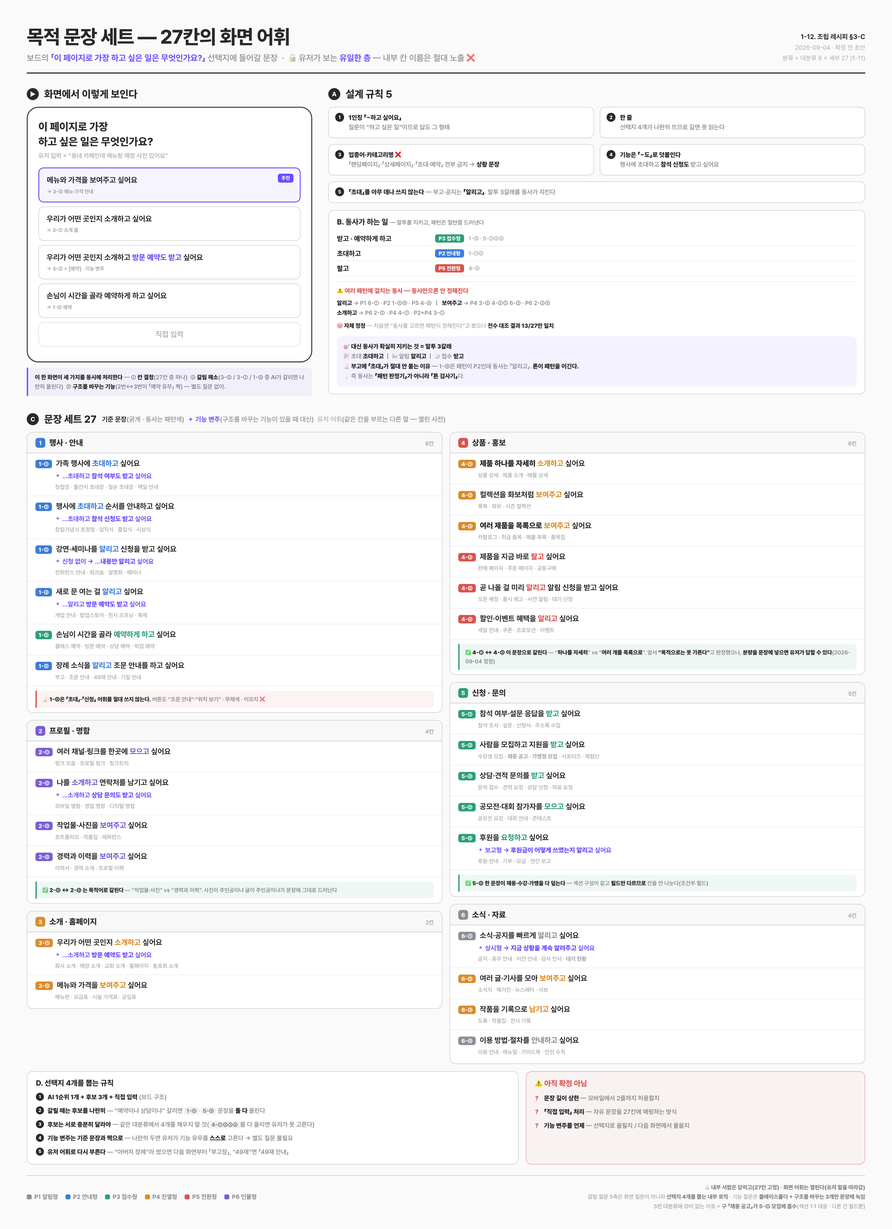
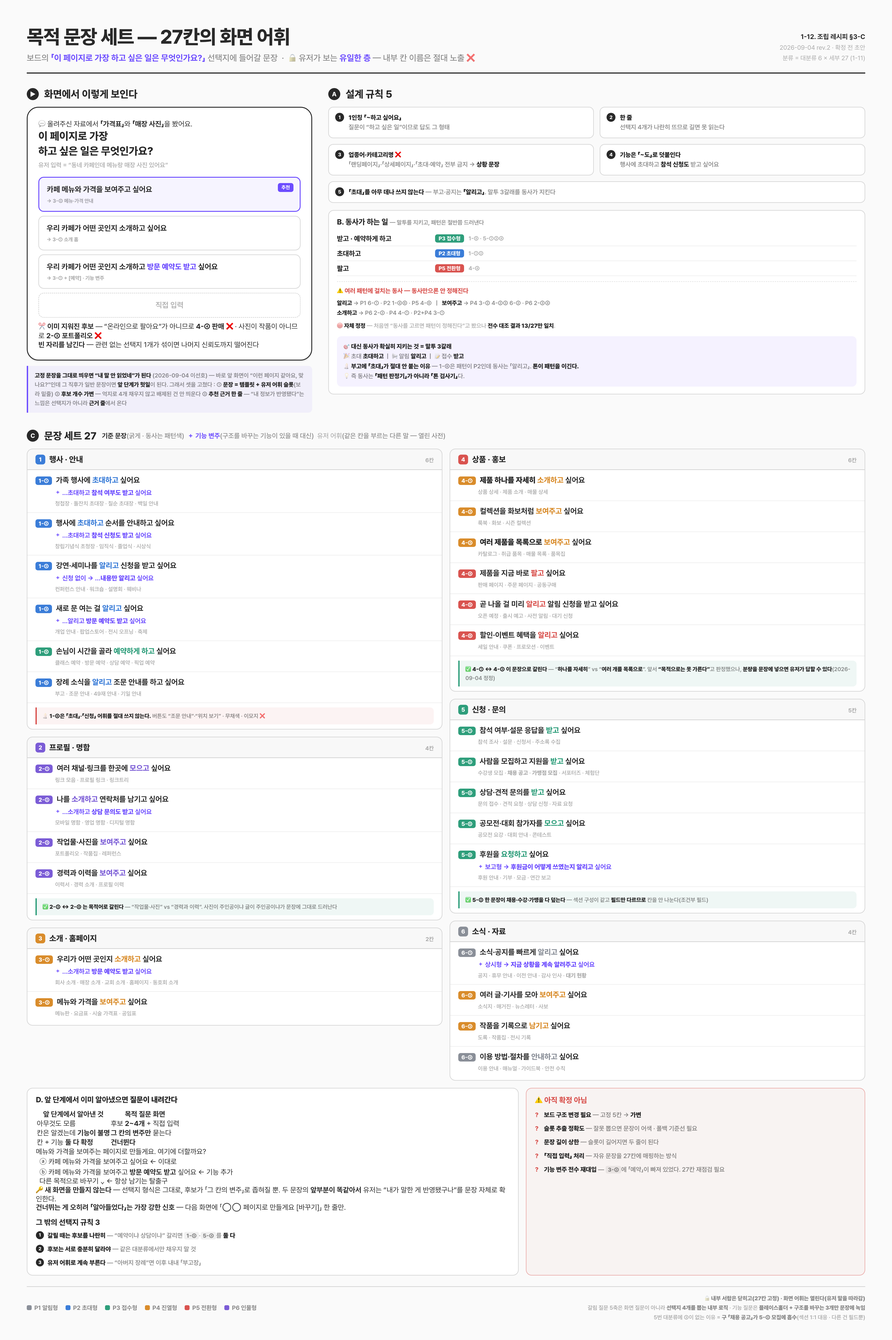
vault backup: 2026-09-04 12:44:11

diff --git a/1. 작업 가이드/.data/1-12-recipe-diagram.html b/1. 작업 가이드/.data/1-12-recipe-diagram.html
@@ -68,6 +68,34 @@ body{background:var(--bg);color:var(--ink);
 .rules2{display:grid;grid-template-columns:1fr 1fr;gap:14px}
 .callout code{background:rgba(41,41,41,.08);padding:1px 5px;border-radius:4px;font-family:inherit;font-weight:800;font-size:12.5px}
 
+
+.axwrap{display:grid;grid-template-columns:1.25fr 1fr;gap:16px;margin-bottom:38px}
+.axbox{border:1.5px solid var(--line2);border-radius:14px;background:#fff;padding:16px 20px 18px}
+.ax-h{font-size:18px;font-weight:800;margin-bottom:12px}
+.axr{font-size:13.5px;line-height:1.6;color:var(--mut);font-weight:600;margin-bottom:9px;padding-left:150px;position:relative}
+.axr b{color:var(--ink)}
+.axl{position:absolute;left:0;top:1px;width:138px;font-size:12px;font-weight:800;color:#fff;background:var(--mut2);
+  padding:3px 8px;border-radius:5px;text-align:center}
+.axcl{font-size:14px;font-weight:700;color:var(--acc);background:rgba(108,76,255,.08);border-radius:9px;padding:9px 14px;margin:11px 0 13px}
+.axcl b{color:var(--acc)}
+.axsplit{display:grid;grid-template-columns:1fr 1fr;gap:12px;margin-bottom:12px}
+.axhalf{border:1.5px solid rgba(217,83,79,.3);background:rgba(217,83,79,.045);border-radius:10px;padding:11px 14px;
+  font-size:12.5px;line-height:1.6;color:var(--mut);font-weight:600}
+.axhalf b{color:var(--ink)} .red{color:#D9534F!important} .grn{color:var(--p3)!important}
+.ax-sh{font-size:14px;font-weight:800;color:#D9534F;margin-bottom:6px}
+.axmath{background:rgba(41,41,41,.045);border-radius:10px;padding:11px 15px;font-size:13.5px;line-height:1.7;color:var(--mut);font-weight:600}
+.axmath b{color:var(--ink)} .axmath span{font-size:12.5px;color:var(--mut2)}
+table.who{width:100%;border-collapse:collapse}
+table.who td{padding:5px 0;border-bottom:1px solid var(--line);font-size:13px;vertical-align:top}
+table.who tr:last-child td{border-bottom:none}
+.w1{color:var(--ink);font-weight:700}
+.w1 span{display:block;font-size:11px;color:var(--mut2);font-weight:600;margin-top:1px}
+.w1 b{font-weight:800}
+.w2{text-align:right;font-weight:800;font-size:12.5px;white-space:nowrap;padding-left:10px!important}
+.w2.pt{color:var(--p2)}.w2.kn{color:var(--p4)}.w2.us{color:var(--p3)}.w2.mx{color:var(--mut)}.w2.md{color:var(--mut2)}
+.axwarn{margin-top:12px;background:rgba(217,83,79,.06);border-left:3px solid #D9534F;border-radius:0 9px 9px 0;
+  padding:10px 14px;font-size:12.5px;line-height:1.65;color:var(--mut);font-weight:600}
+.axwarn b{color:var(--ink)}
 /* ── 분류 체계 스트립 ── */
 .clswrap{display:grid;grid-template-columns:repeat(3,1fr);gap:13px;margin-bottom:12px}
 .cls{border:1.5px solid var(--line2);border-radius:12px;background:#fff;padding:13px 16px 14px;position:relative;overflow:hidden}
@@ -88,6 +116,25 @@ body{background:var(--bg);color:var(--ink);
 .cn{border-left:3px solid var(--acc);background:rgba(108,76,255,.06);border-radius:0 9px 9px 0;
   padding:11px 15px;font-size:13.5px;line-height:1.6;color:var(--mut);font-weight:600}
 .cn b{color:var(--ink)}
+
+.abbr,.condbox{border:1.5px solid var(--line2);border-radius:12px;background:#fff;padding:13px 17px 14px;margin-top:14px}
+.ab-h{font-size:16px;font-weight:800;margin-bottom:10px}
+.ab-h span{font-size:12.5px;color:var(--mut);font-weight:600}
+.ab-h span b{color:var(--ink)}
+.ab-g{display:flex;flex-wrap:wrap;gap:7px;margin-bottom:10px}
+.ab{font-size:12.5px;font-weight:600;color:var(--mut);background:rgba(41,41,41,.05);padding:4px 10px;border-radius:6px}
+.ab b{color:var(--ink);font-weight:800}
+.ab.hi{background:rgba(217,83,79,.08)}
+.ab-n{font-size:12.5px;line-height:1.65;color:var(--mut);font-weight:600;border-top:1px solid var(--line);padding-top:9px}
+.ab-n b{color:var(--ink)}
+.cd-g{margin-bottom:9px}
+.cdr{font-size:13px;line-height:1.55;color:var(--mut);font-weight:600;margin-bottom:6px;padding-left:56px;position:relative}
+.cdr b{color:var(--ink)}
+.cdt{position:absolute;left:0;top:0;width:46px;text-align:center;font-size:11.5px;font-weight:800;color:#fff;padding:2px 0;border-radius:5px}
+.cdt.p1{background:var(--p1)}.cdt.p3{background:var(--p3)}.cdt.p4{background:var(--p4)}.cdt.p5{background:var(--p5)}
+.cd-t{font-size:12.5px;line-height:1.6;color:var(--mut);font-weight:600;background:rgba(41,41,41,.045);border-radius:8px;padding:9px 13px;margin-top:6px}
+.cd-t b{color:var(--ink)}
+.cd-t.acc{background:rgba(108,76,255,.07)}
 /* ── row B : 27 cards ── */
 .cols{display:grid;grid-template-columns:repeat(6,1fr);gap:15px;margin-bottom:38px}
 .col-h{border-top:3px solid var(--ink);padding:11px 4px 12px;margin-bottom:11px}
@@ -103,6 +150,8 @@ body{background:var(--bg);color:var(--ink);
 .cd-i{font-size:13px;font-weight:800;color:var(--mut2)}
 .cd-p{font-size:10.5px;font-weight:800;color:#fff;background:var(--c);
   padding:1.5px 6px;border-radius:5px;letter-spacing:.2px}
+.cd-cond{font-size:10px;font-weight:800;color:var(--mut);background:rgba(41,41,41,.07);padding:1.5px 5px;border-radius:4px;letter-spacing:-.2px}
+.cd-lock{font-size:10px}
 .cd-new{font-size:10.5px;font-weight:800;color:var(--acc);background:rgba(108,76,255,.12);
   padding:1.5px 6px;border-radius:5px}
 .cd-t{font-size:16px;font-weight:800;line-height:1.3;margin-bottom:6px}
@@ -207,7 +256,7 @@ body{background:var(--bg);color:var(--ink);
     <div class="t1">조립 레시피 — 27칸</div>
     <div class="t2">CdBd <b>AI 페이지 빌더</b> 내부 기준 · 「어떤 섹션을 어떤 순서로」 &nbsp;·&nbsp; 공통 골격 <b>1</b> + 배치 패턴 <b>6</b> + 칸별 카드 <b>27</b> &nbsp;·&nbsp; 유저 질문은 <b>「목적」 하나</b></div>
   </div>
-  <div class="meta"><b>1-12. 조립 레시피 (제안 초안)</b><br>2026-09-04 rev.3 · 확정 전 초안<br>분류 정본 = 1-11 (대분류 6 × 세부 27)</div>
+  <div class="meta"><b>1-12. 조립 레시피 (제안 초안)</b><br>2026-09-04 rev.4 · 확정 전 초안<br>분류 정본 = 1-11 (대분류 6 × 세부 27)</div>
 </div>
 
 <div class="rowA">
@@ -267,6 +316,36 @@ body{background:var(--bg);color:var(--ink);
         <div class="flow"><span class="fx k">★프로필=히어로</span><span class="ar">→</span><span class="fx">소개</span><span class="ar">→</span><span class="fx k">★실적·링크</span><span class="ar">→</span><span class="fx">문의</span></div>
         <div class="pat-f"><b>프로필이 최상단</b> — 갤러리·이력·연락처를 프로필보다 위에 ❌ · 멀티 2P</div></div>
     </div>
+    <div class="abbr">
+      <div class="ab-h">📖 약칭 사전 <span>— 흐름 줄의 말들은 13칸 서랍 이름이 아니라 「역할 묶음」이다</span></div>
+      <div class="ab-g">
+        <span class="ab"><b>도입</b> 소개·스토리</span><span class="ab"><b>보조</b> 보조 블록</span>
+        <span class="ab"><b>본문</b> 스토리(글)</span><span class="ab"><b>부가</b> 핵심정보＋안내</span>
+        <span class="ab"><b>때·장소</b> 핵심정보</span><span class="ab"><b>유의</b> 안내 사항</span>
+        <span class="ab hi"><b>근거</b> 핵심정보(가격)＋프로모션＋자료(후기)</span>
+        <span class="ab hi"><b>상세</b> 자료(상세컷)＋제품 설명＋스토리</span>
+        <span class="ab"><b>실적·링크</b> 자료·나열</span>
+      </div>
+      <div class="ab-n">💡 <b>「근거」와 「상세」를 나눈 이유</b> — 근거 = <b>“왜 사야 하나”</b>(싸다·혜택·후기) · 상세 = <b>“무엇을 사는 건가”</b>(사진·스펙).
+        <b>P5는 근거가 먼저</b>(살 이유를 던지고 더 알고 싶은 사람만 내려감) · <b>P4는 상세가 먼저</b>.
+        <b class="red">상세를 먼저 두면 그 순간 P4가 된다</b> — P4↔P5는 CTA 위치만이 아니라 이 순서로도 갈린다.</div>
+    </div>
+
+    <div class="condbox">
+      <div class="ab-h">🔀 한 칸이 <b>여러 패턴을 쓴다</b> <span>— 27칸 중 <b>21칸</b>이 조건에 따라 패턴이 바뀐다. 1:1 고정은 6칸뿐</span></div>
+      <div class="cd-g">
+        <div class="cdr"><span class="cdt p3">＋P3</span><b>받는 기능이 붙는다</b>(참석·신청·예약·문의) → ★ 뒤에 <b>[안내 마감일]＋[폼]</b> 삽입 · 문의 CTA가 “회신하기”로</div>
+        <div class="cdr"><span class="cdt p4">＋P4</span><b>아이템이 여러 개</b>가 된다 → ★가 <b>반복 단위</b>가 되고 앞에 <b>[스토리]</b>가 붙는다</div>
+        <div class="cdr"><span class="cdt p5">＋P5</span><b>결제·전환</b>이 목적에 들어온다 → 구매 CTA를 <b>상단에도</b> 추가 · [스토리]를 뒤로</div>
+        <div class="cdr"><span class="cdt p1">→P1</span><b>짧아지고 받을 것도 없다</b> → 폼·위치·반복이 빠지고 본문 하나로 &nbsp;<b class="red">(대체이지 추가 아님)</b></div>
+      </div>
+      <div class="cd-t">🔒 <b>패턴 고정 6칸</b> 1-⑥ · 2-① · 2-③ · 2-④ · 5-① · 6-①
+        &nbsp;— 공통점 = <b>기능 변주가 없고 아이템 개수도 안 변한다</b></div>
+      <div class="cd-t acc">🔑 <b>트리거는 딱 둘</b> ① <b>기능이 붙는다</b>(＋P3·＋P5) = <b>유저</b>가 목적 문장에서
+        &nbsp;② <b>아이템 개수</b>(＋P4·→P1) = <b>자료 분석</b>(사진 장수·제품 수)<br>
+        → 둘 다 「내용」에서 나오므로 <b>패턴은 유저에게 묻지 않는다</b></div>
+    </div>
+
     <div class="rules2">
       <div class="callout" style="margin-top:14px;border-color:#8A8F98;background:rgba(41,41,41,.045)">
         <b style="color:#292929">🚪 도입 블록은 언제 넣나</b> — 히어로에 흡수되지 않는 <b style="color:#292929">독립 선택 블록</b>.<br>
@@ -283,6 +362,53 @@ body{background:var(--bg);color:var(--ink);
         <b style="color:#D9534F">📍 위치 안내도 보조 블록</b> — 골격의 고정 자리가 아니라 <b style="color:#D9534F">찾아올 곳이 있을 때만</b>.
         단 <b style="color:#D9534F">P2 초대형에선 사실상 필수</b>(「가야 할 곳」이 그 패턴의 정의)</div>
     </div>
+  </div>
+</div>
+
+<div class="sec-h"><div class="sec-n">🧭</div><div><div class="sec-t">왜 두 축인가 · 누가 무엇을 정하나</div></div>
+  <div class="sec-d"><b>명사축(칸 27) × 동사축(패턴 6)</b> — 둘 다 6개인 건 우연이고 대응 관계가 없다</div></div>
+<div class="axwrap">
+  <div class="axbox">
+    <div class="ax-h">두 축은 <b>서로를 결정하지 못한다</b></div>
+    <div class="axr"><span class="axl">㉮ 주제 같은데 배치 다름</span>
+      <b>4-① 상세</b> ↔ <b>4-④ 판매</b> — 둘 다 「물건」·재료도 같은데
+      CTA가 <b>중간 한 번</b> ↔ <b>최상단＋최하단</b> · 스토리가 <b>앞</b> ↔ <b>맨 뒤</b></div>
+    <div class="axr"><span class="axl">㉯ 배치 같은데 주제 다름</span>
+      <b>룩북</b>(옷) · <b>메뉴판</b>(음식) · <b>도록</b>(작품) · <b>매거진</b>(글) — 재료가 전혀 다른데
+      배치는 <b>완전히 같다</b>(히어로→스토리→아이템 반복→문의)</div>
+    <div class="axcl">→ 두 방향이 모두 성립 = <b>독립</b>. 하나로 합칠 수 없다 ∎</div>
+    <div class="axsplit">
+      <div class="axhalf"><div class="ax-sh">주제 축만 남기면</div>
+        같은 순서를 <b>8번 복제</b>(P4를 8칸이 공유) → 규칙 하나 고치려면 8곳.
+        <b class="red">구버전 16개 레시피가 실제로 이 상태였다</b> — 한 곳 고치면 나머지 15개가 낡음</div>
+      <div class="axhalf"><div class="ax-sh">배치 축만 남기면</div>
+        「아이템」에 뭐가 들어가는지 모름 — 룩북=화보 / 도록=<b>캡션 4항목</b> / 메뉴판=<b>2단 양끝정렬</b> / 매거진=제목+발췌
+        → <b class="red">빈 껍데기만 나온다</b></div>
+    </div>
+    <div class="axmath">한 축 : <b>27 × (순서＋내용)</b> — 순서를 27번 기술 &nbsp;&nbsp;|&nbsp;&nbsp;
+      두 축 : <b>6 × 순서 ＋ 27 × 내용</b> — 순서를 6번 &nbsp;<b class="grn">↑ 중복 21번 제거</b><br>
+      <span>조각은 늘고 기술량은 준다 — 이것이 두 축으로 나누는 실질 이득</span></div>
+  </div>
+
+  <div class="axbox">
+    <div class="ax-h">누가 무엇을 정하나 — <b>결정 주체 셋</b></div>
+    <table class="who">
+      <tr><td class="w1">섹션 큰 덩어리 순서</td><td class="w2 pt">패턴</td></tr>
+      <tr><td class="w1">특징적 배치 <span>P5 CTA 2회 · P6 프로필 최상단 · P2 위치 필수 / P1 배제</span></td><td class="w2 pt">패턴</td></tr>
+      <tr><td class="w1">멀티페이지 분할</td><td class="w2 pt">패턴</td></tr>
+      <tr><td class="w1">★ 결정 블록</td><td class="w2 kn">칸</td></tr>
+      <tr><td class="w1">반복 단위의 정보 구조</td><td class="w2 kn">칸</td></tr>
+      <tr><td class="w1">보조 블록 <b>후보 목록</b> <span>6-① 공지에 [구매] ❌</span></td><td class="w2 kn">칸</td></tr>
+      <tr><td class="w1">보조 블록 <b>내용</b> <span>[안내 사항]이 1-②=좌석·주차 / 4-①=배송·환불</span></td><td class="w2 kn">칸</td></tr>
+      <tr><td class="w1">보조 블록끼리의 <b>세부 순서</b></td><td class="w2 kn">칸</td></tr>
+      <tr><td class="w1">톤(보이스)</td><td class="w2 mx">패턴 → 칸이 덮어쓰기</td></tr>
+      <tr><td class="w1">기능 유무 <span>참석·예약·결제</span></td><td class="w2 us">유저</td></tr>
+      <tr><td class="w1">그 외 보조 블록 유무 · 콘텐츠</td><td class="w2 us">유저</td></tr>
+      <tr><td class="w1">색·폰트(무드)</td><td class="w2 md">AI 추천 → 유저 확인</td></tr>
+    </table>
+    <div class="axwarn">🔴 <b>자주 틀리는 둘</b><br>
+      ① “순서는 전부 패턴” ❌ — <b>보조끼리의 세부 순서는 칸</b>. 같은 P2인데 1-②는 <b>폼→안내</b>, 1-③은 <b>안내→폼</b><br>
+      ② “기능은 칸이 정한다” ❌ — 칸은 <b>「붙을 수 있다」까지만</b>. 실제 유무는 <b>유저</b>가 목적 문장에서 고른다</div>
   </div>
 </div>
 
@@ -328,17 +454,17 @@ body{background:var(--bg);color:var(--ink);
   <div>
     <div class="col-h"><div class="col-n">대분류 1 · 주인공 = 때</div><div class="col-t">행사 · 안내</div>
       <div class="col-s">세부 <span class="cnt">6칸</span> · 오게 하는 것</div></div>
-    <div class="card" style="--c:var(--p2)"><div class="cd-h"><span class="cd-i">1-①</span><span class="cd-p">P2</span></div>
+    <div class="card" style="--c:var(--p2)"><div class="cd-h"><span class="cd-i">1-①</span><span class="cd-p">P2</span><span class="cd-cond">＋P3</span></div>
       <div class="cd-t">경조사 초대장</div><div class="cd-b"><span class="st">★</span> 주인공 인물 (이름·사진)<div class="cd-s"><span class="lbl">정보 구조</span>사진 + 이름(쌍) + 관계 한 덩어리</div></div></div>
-    <div class="card" style="--c:var(--p2)"><div class="cd-h"><span class="cd-i">1-②</span><span class="cd-p">P2</span></div>
+    <div class="card" style="--c:var(--p2)"><div class="cd-h"><span class="cd-i">1-②</span><span class="cd-p">P2</span><span class="cd-cond">＋P3</span></div>
       <div class="cd-t">행사 초대장</div><div class="cd-b"><span class="st">★</span> 식순 (시간 + 순서)<div class="cd-s"><span class="lbl">정보 구조</span>시간 + 순서명 <b>2열</b> · 인물 카드 ❌</div></div></div>
-    <div class="card" style="--c:var(--p2)"><div class="cd-h"><span class="cd-i">1-③</span><span class="cd-p">P2</span></div>
+    <div class="card" style="--c:var(--p2)"><div class="cd-h"><span class="cd-i">1-③</span><span class="cd-p">P2</span><span class="cd-cond">＋P3 ＋P4</span></div>
       <div class="cd-t">세미나·강연 안내</div><div class="cd-b"><span class="st">★</span> 연사 × N + 세션 목록<div class="cd-s"><span class="lbl">정보 구조</span>연사 카드 × N <b>＋</b> 시간·세션·연사 3열</div></div></div>
-    <div class="card" style="--c:var(--p2)"><div class="cd-h"><span class="cd-i">1-④</span><span class="cd-p">P2</span></div>
+    <div class="card" style="--c:var(--p2)"><div class="cd-h"><span class="cd-i">1-④</span><span class="cd-p">P2</span><span class="cd-cond">＋P3 ＋P4</span></div>
       <div class="cd-t">개업·오픈 안내</div><div class="cd-b"><span class="st">★</span> 기간 + 볼거리·혜택<div class="cd-s"><span class="lbl">정보 구조</span>시작~종료 + 운영시간 ＋ 참여 항목 나열</div></div></div>
-    <div class="card" style="--c:var(--p3)"><div class="cd-h"><span class="cd-i">1-⑤</span><span class="cd-p">P3</span></div>
+    <div class="card" style="--c:var(--p3)"><div class="cd-h"><span class="cd-i">1-⑤</span><span class="cd-p">P3</span><span class="cd-cond">＋P4</span></div>
       <div class="cd-t">예약</div><div class="cd-b"><span class="st">★</span> 회차 버튼 (버튼 1 = 세션 1)<div class="cd-s"><span class="lbl">정보 구조</span>버튼 1 = 세션 1 세로 반복 · 달력 UI ❌</div></div></div>
-    <div class="card" style="--c:var(--p2)"><div class="cd-h"><span class="cd-i">1-⑥</span><span class="cd-p">P2</span><span class="cd-new">📢 알림 톤</span></div>
+    <div class="card" style="--c:var(--p2)"><div class="cd-h"><span class="cd-i">1-⑥</span><span class="cd-p">P2</span><span class="cd-new">📢 알림 톤</span><span class="cd-lock">🔒</span></div>
       <div class="cd-t">부고·추모</div><div class="cd-b"><span class="st">★</span> 장례 정보 (빈소·발인·장지)<div class="cd-s"><span class="lbl">정보 구조</span>빈소/발인/장지 <b>다중 일정</b> 라벨+값</div></div></div>
     <div class="note">🕯 부고는 「초대」가 아니다 — 무채색 · 이모지❌ · 버튼 “조문 안내”. 국내 서비스 12곳 전수 확인: 부고를 초대장에 묶는 곳 0</div>
   </div>
@@ -346,13 +472,13 @@ body{background:var(--bg);color:var(--ink);
   <div>
     <div class="col-h"><div class="col-n">대분류 2 · 주인공 = 사람</div><div class="col-t">프로필 · 명함</div>
       <div class="col-s">세부 <span class="cnt">4칸</span> · 전부 P6</div></div>
-    <div class="card" style="--c:var(--p6)"><div class="cd-h"><span class="cd-i">2-①</span><span class="cd-p">P6</span></div>
+    <div class="card" style="--c:var(--p6)"><div class="cd-h"><span class="cd-i">2-①</span><span class="cd-p">P6</span><span class="cd-lock">🔒</span></div>
       <div class="cd-t">프로필 (링크 모음)</div><div class="cd-b"><span class="st">★</span> 링크 목록 · 성격별 그룹 최대 3<div class="cd-s"><span class="lbl">정보 구조</span>그룹 제목 + 전폭 버튼 반복 × 최대 3그룹</div></div></div>
-    <div class="card" style="--c:var(--p6)"><div class="cd-h"><span class="cd-i">2-②</span><span class="cd-p">P6</span></div>
+    <div class="card" style="--c:var(--p6)"><div class="cd-h"><span class="cd-i">2-②</span><span class="cd-p">P6</span><span class="cd-cond">＋P3</span></div>
       <div class="cd-t">영업용 명함</div><div class="cd-b"><span class="st">★</span> 사람 + 하는 일 + 연락 수단<div class="cd-s"><span class="lbl">정보 구조</span>프로필 ＋ 분야 나열 ＋ 연락 버튼 한 묶음</div></div></div>
-    <div class="card dual" style="--c:var(--p6);--c2:var(--p4)"><div class="cd-h"><span class="cd-i">2-③</span><span class="cd-p">P6+P4</span></div>
+    <div class="card dual" style="--c:var(--p6);--c2:var(--p4)"><div class="cd-h"><span class="cd-i">2-③</span><span class="cd-p">P6+P4</span><span class="cd-lock">🔒</span></div>
       <div class="cd-t">포트폴리오</div><div class="cd-b"><span class="st">★</span> 작업물 — <b>이미지</b>가 주인공<div class="cd-s"><span class="lbl">정보 구조</span>이미지 갤러리(그리드·캐러셀) + 설명</div></div></div>
-    <div class="card" style="--c:var(--p6)"><div class="cd-h"><span class="cd-i">2-④</span><span class="cd-p">P6</span><span class="cd-new">NEW</span></div>
+    <div class="card" style="--c:var(--p6)"><div class="cd-h"><span class="cd-i">2-④</span><span class="cd-p">P6</span><span class="cd-new">NEW</span><span class="cd-lock">🔒</span></div>
       <div class="cd-t">이력서·경력</div><div class="cd-b"><span class="st">★</span> 시간순 경력 — <b>글</b>이 주인공<div class="cd-s"><span class="lbl">정보 구조</span>기간 + 소속 + 역할 <b>3열 시간순</b> · 이미지 ❌</div></div></div>
     <div class="note">③↔④는 갈림 질문 ⑤로 가른다. 결과물이 글인 직군(번역·집필·연구)은 갤러리가 주인공이 될 수 없다</div>
   </div>
@@ -360,9 +486,9 @@ body{background:var(--bg);color:var(--ink);
   <div>
     <div class="col-h"><div class="col-n">대분류 3 · 주인공 = 공간·조직</div><div class="col-t">소개 · 홈페이지</div>
       <div class="col-s">세부 <span class="cnt">2칸</span> · 확장 여부 미결</div></div>
-    <div class="card dual" style="--c:var(--p2);--c2:var(--p4)"><div class="cd-h"><span class="cd-i">3-①</span><span class="cd-p">P2+P4</span></div>
+    <div class="card dual" style="--c:var(--p2);--c2:var(--p4)"><div class="cd-h"><span class="cd-i">3-①</span><span class="cd-p">P2+P4</span><span class="cd-cond">＋P3</span></div>
       <div class="cd-t">소개 홈</div><div class="cd-b"><span class="st">★</span> 우리가 누구 · 무엇을 하는지<div class="cd-s"><span class="lbl">정보 구조</span>스토리 문단 ＋ 제공 항목 나열 · 섹션 수 최다</div></div></div>
-    <div class="card" style="--c:var(--p4)"><div class="cd-h"><span class="cd-i">3-②</span><span class="cd-p">P4</span></div>
+    <div class="card" style="--c:var(--p4)"><div class="cd-h"><span class="cd-i">3-②</span><span class="cd-p">P4</span><span class="cd-cond">＋P3</span></div>
       <div class="cd-t">메뉴·가격 안내</div><div class="cd-b"><span class="st">★</span> 품목 + 가격 반복<div class="cd-s"><span class="lbl">정보 구조</span><b>2단 양끝정렬</b>(품목 ↔ 가격) 1행 반복</div></div></div>
     <div class="note">🧩 <b>27칸 중 유일한 종합형</b> — 3-①만 다른 대분류의 유형을 <b>페이지 단위</b>로 품는다. 멀티페이지 본진<br><br>
       아트갤러리 홈페이지<br>├ P1 홈<br>├ P2 전시 ← 1-④<br>├ P3 작품 ← 6-③<br>└ P4 방문 안내 ← 1-⑤<br><br>
@@ -373,32 +499,32 @@ body{background:var(--bg);color:var(--ink);
   <div>
     <div class="col-h"><div class="col-n">대분류 4 · 주인공 = 물건</div><div class="col-t">상품 · 홍보</div>
       <div class="col-s">세부 <span class="cnt">6칸</span> · 실사용 최대 구역</div></div>
-    <div class="card" style="--c:var(--p4)"><div class="cd-h"><span class="cd-i">4-①</span><span class="cd-p">P4</span></div>
+    <div class="card" style="--c:var(--p4)"><div class="cd-h"><span class="cd-i">4-①</span><span class="cd-p">P4</span><span class="cd-cond">＋P5</span></div>
       <div class="cd-t">상품 상세</div><div class="cd-b"><span class="st">★</span> 제품별 상세 블록 반복 <b>(깊고 적게)</b><div class="cd-s"><span class="lbl">정보 구조</span><b>제품 1개 = 섹션 여러 개</b><br>갤러리→이름·가격→설명→스펙→실측→구매</div></div></div>
-    <div class="card" style="--c:var(--p4)"><div class="cd-h"><span class="cd-i">4-②</span><span class="cd-p">P4</span></div>
+    <div class="card" style="--c:var(--p4)"><div class="cd-h"><span class="cd-i">4-②</span><span class="cd-p">P4</span><span class="cd-cond">＋P5</span></div>
       <div class="cd-t">룩북·컬렉션</div><div class="cd-b"><span class="st">★</span> 룩별 화보 섹션 · 「LOOK N」<div class="cd-s"><span class="lbl">정보 구조</span><b>룩 1개 = 독립 섹션</b> · LOOK N + 화보 + 1줄</div></div></div>
-    <div class="card" style="--c:var(--p4)"><div class="cd-h"><span class="cd-i">4-③</span><span class="cd-p">P4</span><span class="cd-new">NEW</span></div>
+    <div class="card" style="--c:var(--p4)"><div class="cd-h"><span class="cd-i">4-③</span><span class="cd-p">P4</span><span class="cd-new">NEW</span><span class="cd-cond">＋P5</span></div>
       <div class="cd-t">카탈로그</div><div class="cd-b"><span class="st">★</span> 여러 품목 목록 <b>(얕고 많이)</b><div class="cd-s"><span class="lbl">정보 구조</span><b>품목 1개 = 카드 1장</b> · 이름+컷+1~2줄</div></div></div>
-    <div class="card" style="--c:var(--p5)"><div class="cd-h"><span class="cd-i">4-④</span><span class="cd-p">P5</span></div>
+    <div class="card" style="--c:var(--p5)"><div class="cd-h"><span class="cd-i">4-④</span><span class="cd-p">P5</span><span class="cd-cond">＋P4</span></div>
       <div class="cd-t">판매·주문</div><div class="cd-b"><span class="st">★</span> 구매 CTA — 상단 + 하단<div class="cd-s"><span class="lbl">정보 구조</span><b>상단·하단 2회</b> + 사이에 근거(가격·리뷰)</div></div></div>
-    <div class="card" style="--c:var(--p5)"><div class="cd-h"><span class="cd-i">4-⑤</span><span class="cd-p">P5</span><span class="cd-new">NEW</span></div>
+    <div class="card" style="--c:var(--p5)"><div class="cd-h"><span class="cd-i">4-⑤</span><span class="cd-p">P5</span><span class="cd-new">NEW</span><span class="cd-cond">＋P3 →P1</span></div>
       <div class="cd-t">출시·사전예약</div><div class="cd-b"><span class="st">★</span> 출시 예고 + 알림 신청 <b>(돈❌)</b><div class="cd-s"><span class="lbl">정보 구조</span>D-DAY + 티저 ＋ <b>연락처만</b> 받는 폼</div></div></div>
-    <div class="card" style="--c:var(--p5)"><div class="cd-h"><span class="cd-i">4-⑥</span><span class="cd-p">P5</span><span class="cd-new">NEW</span></div>
+    <div class="card" style="--c:var(--p5)"><div class="cd-h"><span class="cd-i">4-⑥</span><span class="cd-p">P5</span><span class="cd-new">NEW</span><span class="cd-cond">＋P4 →P1</span></div>
       <div class="cd-t">프로모션·이벤트</div><div class="cd-b"><span class="st">★</span> 혜택 + 마감<div class="cd-s"><span class="lbl">정보 구조</span>혜택 숫자·% + 쿠폰 코드 + 마감 시각</div></div></div>
   </div>
 
   <div>
     <div class="col-h"><div class="col-n">대분류 5 · 주인공 = 폼</div><div class="col-t">신청 · 문의</div>
       <div class="col-s">세부 <span class="cnt">5칸</span> · 전부 P3</div></div>
-    <div class="card" style="--c:var(--p3)"><div class="cd-h"><span class="cd-i">5-①</span><span class="cd-p">P3</span></div>
+    <div class="card" style="--c:var(--p3)"><div class="cd-h"><span class="cd-i">5-①</span><span class="cd-p">P3</span><span class="cd-lock">🔒</span></div>
       <div class="cd-t">신청·접수</div><div class="cd-b"><span class="st">★</span> 폼 (행사 정보는 짧게)<div class="cd-s"><span class="lbl">정보 구조</span><b>집계형 폼</b> — 선택지 다수 · 명단 집계</div></div></div>
-    <div class="card" style="--c:var(--p3)"><div class="cd-h"><span class="cd-i">5-②</span><span class="cd-p">P3</span></div>
+    <div class="card" style="--c:var(--p3)"><div class="cd-h"><span class="cd-i">5-②</span><span class="cd-p">P3</span><span class="cd-cond">＋P4</span></div>
       <div class="cd-t">모집</div><div class="cd-b"><span class="st">★</span> 모집 요강 (정원·마감·선발)<div class="cd-s"><span class="lbl">정보 구조</span>정원·기간·대상 ＋ 조건부 나열 ＋ 지원 폼</div></div></div>
-    <div class="card" style="--c:var(--p3)"><div class="cd-h"><span class="cd-i">5-④</span><span class="cd-p">P3</span><span class="cd-new">NEW</span></div>
+    <div class="card" style="--c:var(--p3)"><div class="cd-h"><span class="cd-i">5-④</span><span class="cd-p">P3</span><span class="cd-new">NEW</span><span class="cd-cond">＋P4 ＋P6</span></div>
       <div class="cd-t">상담·문의 받기</div><div class="cd-b"><span class="st">★</span> 문의 폼<div class="cd-s"><span class="lbl">정보 구조</span><b>서술형 폼</b> — 자유 서술 · 1건씩 회신</div></div></div>
-    <div class="card" style="--c:var(--p3)"><div class="cd-h"><span class="cd-i">5-⑤</span><span class="cd-p">P3</span><span class="cd-new">NEW</span></div>
+    <div class="card" style="--c:var(--p3)"><div class="cd-h"><span class="cd-i">5-⑤</span><span class="cd-p">P3</span><span class="cd-new">NEW</span><span class="cd-cond">＋P4</span></div>
       <div class="cd-t">공모전·대회</div><div class="cd-b"><span class="st">★</span> 부문 + 자격 + 시상<div class="cd-s"><span class="lbl">정보 구조</span>부문 나열 / 자격·마감 / 시상 나열 3블록</div></div></div>
-    <div class="card" style="--c:var(--p3)"><div class="cd-h"><span class="cd-i">5-⑥</span><span class="cd-p">P3</span><span class="cd-new">NEW</span></div>
+    <div class="card" style="--c:var(--p3)"><div class="cd-h"><span class="cd-i">5-⑥</span><span class="cd-p">P3</span><span class="cd-new">NEW</span><span class="cd-cond">＋P4 ＋P5</span></div>
       <div class="cd-t">후원·기부</div><div class="cd-b"><span class="st">★</span> 취지 + 사용처 + 후원 방법<div class="cd-s"><span class="lbl">정보 구조</span>스토리 문단 ＋ <b>항목별 숫자</b> ＋ 계좌</div></div></div>
     <div class="note">🗑 <b>구 「③ 채용 공고」는 5-②에 흡수</b> — 섹션이 1:1 대응하고 다른 건 필드뿐<br><br>
       5-② 조건부 필드 3종<br>· <b>채용</b> 직무·전형 절차<br>· <b>수강</b> 커리큘럼·강사<br>· <b>가맹</b> 비용·수익 구조<br><br>
@@ -408,13 +534,13 @@ body{background:var(--bg);color:var(--ink);
   <div>
     <div class="col-h"><div class="col-n">대분류 6 · 주인공 = 글</div><div class="col-t">소식 · 자료</div>
       <div class="col-s">세부 <span class="cnt">4칸</span> · 읽고 끝나는 것</div></div>
-    <div class="card" style="--c:var(--p1)"><div class="cd-h"><span class="cd-i">6-①</span><span class="cd-p">P1</span></div>
+    <div class="card" style="--c:var(--p1)"><div class="cd-h"><span class="cd-i">6-①</span><span class="cd-p">P1</span><span class="cd-lock">🔒</span></div>
       <div class="cd-t">공지·알림</div><div class="cd-b"><span class="st">★</span> 본문 글 · <b>변주 2종</b><div class="cd-s"><span class="lbl">정보 구조</span>제목 + 문단 · 나열·폼·위치 <b>전부 ❌</b></div></div></div>
-    <div class="card" style="--c:var(--p4)"><div class="cd-h"><span class="cd-i">6-②</span><span class="cd-p">P4</span></div>
+    <div class="card" style="--c:var(--p4)"><div class="cd-h"><span class="cd-i">6-②</span><span class="cd-p">P4</span><span class="cd-cond">→P1</span></div>
       <div class="cd-t">매거진·소식지</div><div class="cd-b"><span class="st">★</span> 글 나열 (제목+발췌)<div class="cd-s"><span class="lbl">정보 구조</span>제목 + 발췌 + 이미지 <b>텍스트 블록</b> 반복</div></div></div>
-    <div class="card" style="--c:var(--p4)"><div class="cd-h"><span class="cd-i">6-③</span><span class="cd-p">P4</span></div>
+    <div class="card" style="--c:var(--p4)"><div class="cd-h"><span class="cd-i">6-③</span><span class="cd-p">P4</span><span class="cd-cond">＋P2</span></div>
       <div class="cd-t">도록·작품집</div><div class="cd-b"><span class="st">★</span> 이미지 + 캡션 나열<div class="cd-s"><span class="lbl">정보 구조</span>이미지 + <b>캡션 4항목</b> · 2단 양끝정렬</div></div></div>
-    <div class="card" style="--c:var(--p1)"><div class="cd-h"><span class="cd-i">6-④</span><span class="cd-p">P1</span></div>
+    <div class="card" style="--c:var(--p1)"><div class="cd-h"><span class="cd-i">6-④</span><span class="cd-p">P1</span><span class="cd-cond">＋P4</span></div>
       <div class="cd-t">가이드·이용안내</div><div class="cd-b"><span class="st">★</span> 단계별 안내 · 넘버링 필수<div class="cd-s"><span class="lbl">정보 구조</span>번호 + 제목 + 설명 <b>순서 반복</b></div></div></div>
     <div class="note">🔀 <b>6-① 변주 2종</b> (칸은 안 나눔)<br>
       · <b>일회성 공지</b> — 며칠 · 히어로 = 제목<br>

diff --git a/1. 작업 가이드/.data/1-12-sentences-diagram.html b/1. 작업 가이드/.data/1-12-sentences-diagram.html
@@ -100,24 +100,27 @@ code{background:rgba(41,41,41,.07);padding:1px 5px;border-radius:4px;font-family
 <div class="top">
   <div><div class="t1">목적 문장 세트 — 27칸의 화면 어휘</div>
     <div class="t2">보드의 <b>「이 페이지로 가장 하고 싶은 일은 무엇인가요?」</b> 선택지에 들어갈 문장 &nbsp;·&nbsp; 🔒 유저가 보는 <b>유일한 층</b> — 내부 칸 이름은 절대 노출 ❌</div></div>
-  <div class="meta"><b>1-12. 조립 레시피 §3-C</b><br>2026-09-04 · 확정 전 초안<br>분류 = 대분류 6 × 세부 27 (1-11)</div>
+  <div class="meta"><b>1-12. 조립 레시피 §3-C</b><br>2026-09-04 rev.2 · 확정 전 초안<br>분류 = 대분류 6 × 세부 27 (1-11)</div>
 </div>
 
 <div class="rowA">
   <div>
     <div class="sec-h"><div class="sec-n">▶</div><div class="sec-t">화면에서 이렇게 보인다</div></div>
     <div class="phone">
+      <div class="ev">💬 올려주신 자료에서 <b>「가격표」</b>와 <b>「매장 사진」</b>을 봤어요.</div>
       <div class="ph-q">이 페이지로 가장<br>하고 싶은 일은 무엇인가요?</div>
       <div class="ph-s">유저 입력 = “동네 카페인데 메뉴랑 매장 사진 있어요”</div>
-      <div class="opt reco"><span class="rb">추천</span>메뉴와 가격을 보여주고 싶어요<span class="kn">→ 3-② 메뉴·가격 안내</span></div>
-      <div class="opt">우리가 어떤 곳인지 소개하고 싶어요<span class="kn">→ 3-① 소개 홈</span></div>
-      <div class="opt">우리가 어떤 곳인지 소개하고 <span class="tail">방문 예약도 받고</span> 싶어요<span class="kn">→ 3-① + [예약] · 기능 변주</span></div>
-      <div class="opt">손님이 시간을 골라 예약하게 하고 싶어요<span class="kn">→ 1-⑤ 예약</span></div>
+      <div class="opt reco"><span class="rb">추천</span><span class="slot">카페 메뉴와 가격</span>을 보여주고 싶어요<span class="kn">→ 3-② 메뉴·가격 안내</span></div>
+      <div class="opt"><span class="slot">우리 카페</span>가 어떤 곳인지 소개하고 싶어요<span class="kn">→ 3-① 소개 홈</span></div>
+      <div class="opt"><span class="slot">우리 카페</span>가 어떤 곳인지 소개하고 <span class="tail">방문 예약도 받고</span> 싶어요<span class="kn">→ 3-① + [예약] · 기능 변주</span></div>
       <div class="opt free">직접 입력</div>
+      <div class="excl">✂ <b>이미 지워진 후보</b> — “온라인으로 팔아요”가 아니므로 <b>4-④ 판매</b> ❌ · 사진이 작품이 아니므로 <b>2-③ 포트폴리오</b> ❌
+        <br><b>빈 자리를 남긴다</b> — 관련 없는 선택지 1개가 섞이면 나머지 신뢰도까지 떨어진다</div>
     </div>
-    <div class="mockcap"><b>이 한 화면이 세 가지를 동시에 처리한다</b> —
-      ① <b>칸 결정</b>(27칸 중 하나) &nbsp;② <b>갈림 해소</b>(3-② / 3-① / 1-⑤ 중 AI가 갈리면 나란히 올린다)
-      &nbsp;③ <b>구조를 바꾸는 기능</b>(2번↔3번이 「예약 유무」 짝) — 별도 질문 없이.</div>
+    <div class="mockcap"><b>고정 문장을 그대로 띄우면 “내 말 안 읽었네”가 된다</b> (2026-09-04 이선호) —
+      바로 앞 화면이 “이런 페이지 같아요, 맞나요?”인데 그 직후가 일반 문장이면 <b>앞 단계가 헛일</b>이 된다. 그래서 셋을 고쳤다 :
+      ① <b>문장 = 템플릿 + 유저 어휘 슬롯</b>(보라 밑줄) ② <b>후보 개수 가변</b> — 억지로 4개 채우지 않고 배제된 건 안 띄운다
+      ③ <b>추천 근거 한 줄</b> — “내 정보가 반영됐다”는 느낌은 선택지가 아니라 <b>근거 줄</b>에서 온다</div>
   </div>
 
   <div>
@@ -250,17 +253,29 @@ code{background:rgba(41,41,41,.07);padding:1px 5px;border-radius:4px;font-family
 </div>
 
 <div class="bot">
-  <div class="bx"><div class="bx-h">D. 선택지 4개를 뽑는 규칙</div>
-    <div class="bl"><span class="n">1</span><b>AI 1순위 1개 + 후보 3개 + 직접 입력</b> (보드 구조)</div>
-    <div class="bl"><span class="n">2</span><b>갈릴 때는 후보를 나란히</b> — “예약이냐 상담이냐” 갈리면 <code>1-⑤</code>·<code>5-④</code> 문장을 <b>둘 다</b> 올린다</div>
-    <div class="bl"><span class="n">3</span><b>후보는 서로 충분히 달라야</b> — 같은 대분류에서 4개를 채우지 말 것(<code>4-①②③④</code>를 다 올리면 유저가 못 고른다)</div>
-    <div class="bl"><span class="n">4</span><b>기능 변주는 기준 문장과 짝으로</b> — 나란히 두면 유저가 기능 유무를 <b>스스로</b> 고른다 → 별도 질문 불필요</div>
-    <div class="bl"><span class="n">5</span><b>유저 어휘로 다시 부른다</b> — “아버지 장례”라 썼으면 다음 화면부터 「부고장」, “49재”면 「49재 안내」</div>
+  <div class="bx"><div class="bx-h">D. 앞 단계에서 이미 알아냈으면 <b>질문이 내려간다</b></div>
+    <table class="dem"><tr><th>앞 단계에서 알아낸 것</th><th>목적 질문 화면</th></tr>
+      <tr><td>아무것도 모름</td><td>후보 <b>2~4개</b> + 직접 입력</td></tr>
+      <tr><td>칸은 알겠는데 <b>기능이 불명</b></td><td><b>그 칸의 변주만</b> 묻는다</td></tr>
+      <tr><td>칸 + 기능 <b>둘 다 확정</b></td><td><b class="red">건너뛴다</b></td></tr></table>
+    <div class="demo">메뉴와 가격을 보여주는 페이지로 만들게요. 여기에 더할까요?<br>
+      &nbsp;&nbsp;ⓐ 카페 메뉴와 가격을 보여주고 싶어요 <span>← 이대로</span><br>
+      &nbsp;&nbsp;ⓑ 카페 메뉴와 가격을 보여주고 <b>방문 예약도 받고</b> 싶어요 <span>← 기능 추가</span><br>
+      &nbsp;&nbsp;다른 목적으로 바꾸기 ⌄ <span>← 항상 남기는 탈출구</span></div>
+    <div class="dnote">🔑 <b>새 화면을 만들지 않는다</b> — 선택지 형식은 그대로, 후보가 「그 칸의 변주」로 좁혀질 뿐.
+      두 문장의 <b>앞부분이 똑같아서</b> 유저는 “내가 말한 게 반영됐구나”를 문장 자체로 확인한다.<br>
+      <b>건너뛰는 게 오히려 「알아들었다」는 가장 강한 신호</b> — 다음 화면에 「◯◯ 페이지로 만들게요 [바꾸기]」 한 줄만.</div>
+    <div class="bx-h" style="margin:14px 0 9px">그 밖의 선택지 규칙 3</div>
+    <div class="bl"><span class="n">1</span><b>갈릴 때는 후보를 나란히</b> — “예약이냐 상담이냐” 갈리면 <code>1-⑤</code>·<code>5-④</code>를 <b>둘 다</b></div>
+    <div class="bl"><span class="n">2</span><b>후보는 서로 충분히 달라야</b> — 같은 대분류에서만 채우지 말 것</div>
+    <div class="bl"><span class="n">3</span><b>유저 어휘로 계속 부른다</b> — “아버지 장례”면 이후 내내 「부고장」</div>
   </div>
   <div class="bx und"><div class="bx-h">⚠ 아직 확정 아님</div>
-    <div class="bl q"><b>문장 길이 상한</b> — 모바일에서 2줄까지 허용할지</div>
+    <div class="bl q"><b>보드 구조 변경 필요</b> — 고정 5칸 → <b>가변</b></div>
+    <div class="bl q"><b>슬롯 추출 정확도</b> — 잘못 뽑으면 문장이 어색 · 폴백 기준선 필요</div>
+    <div class="bl q"><b>문장 길이 상한</b> — 슬롯이 길어지면 두 줄이 된다</div>
     <div class="bl q"><b>「직접 입력」 처리</b> — 자유 문장을 27칸에 매핑하는 방식</div>
-    <div class="bl q"><b>기능 변주를 언제</b> — 선택지로 올릴지 / 다음 화면에서 물을지</div>
+    <div class="bl q"><b>기능 변주 전수 재대입</b> — <code>3-②</code>에 「예약」이 빠져 있었다. 27칸 재점검 필요</div>
   </div>
 </div>
 
